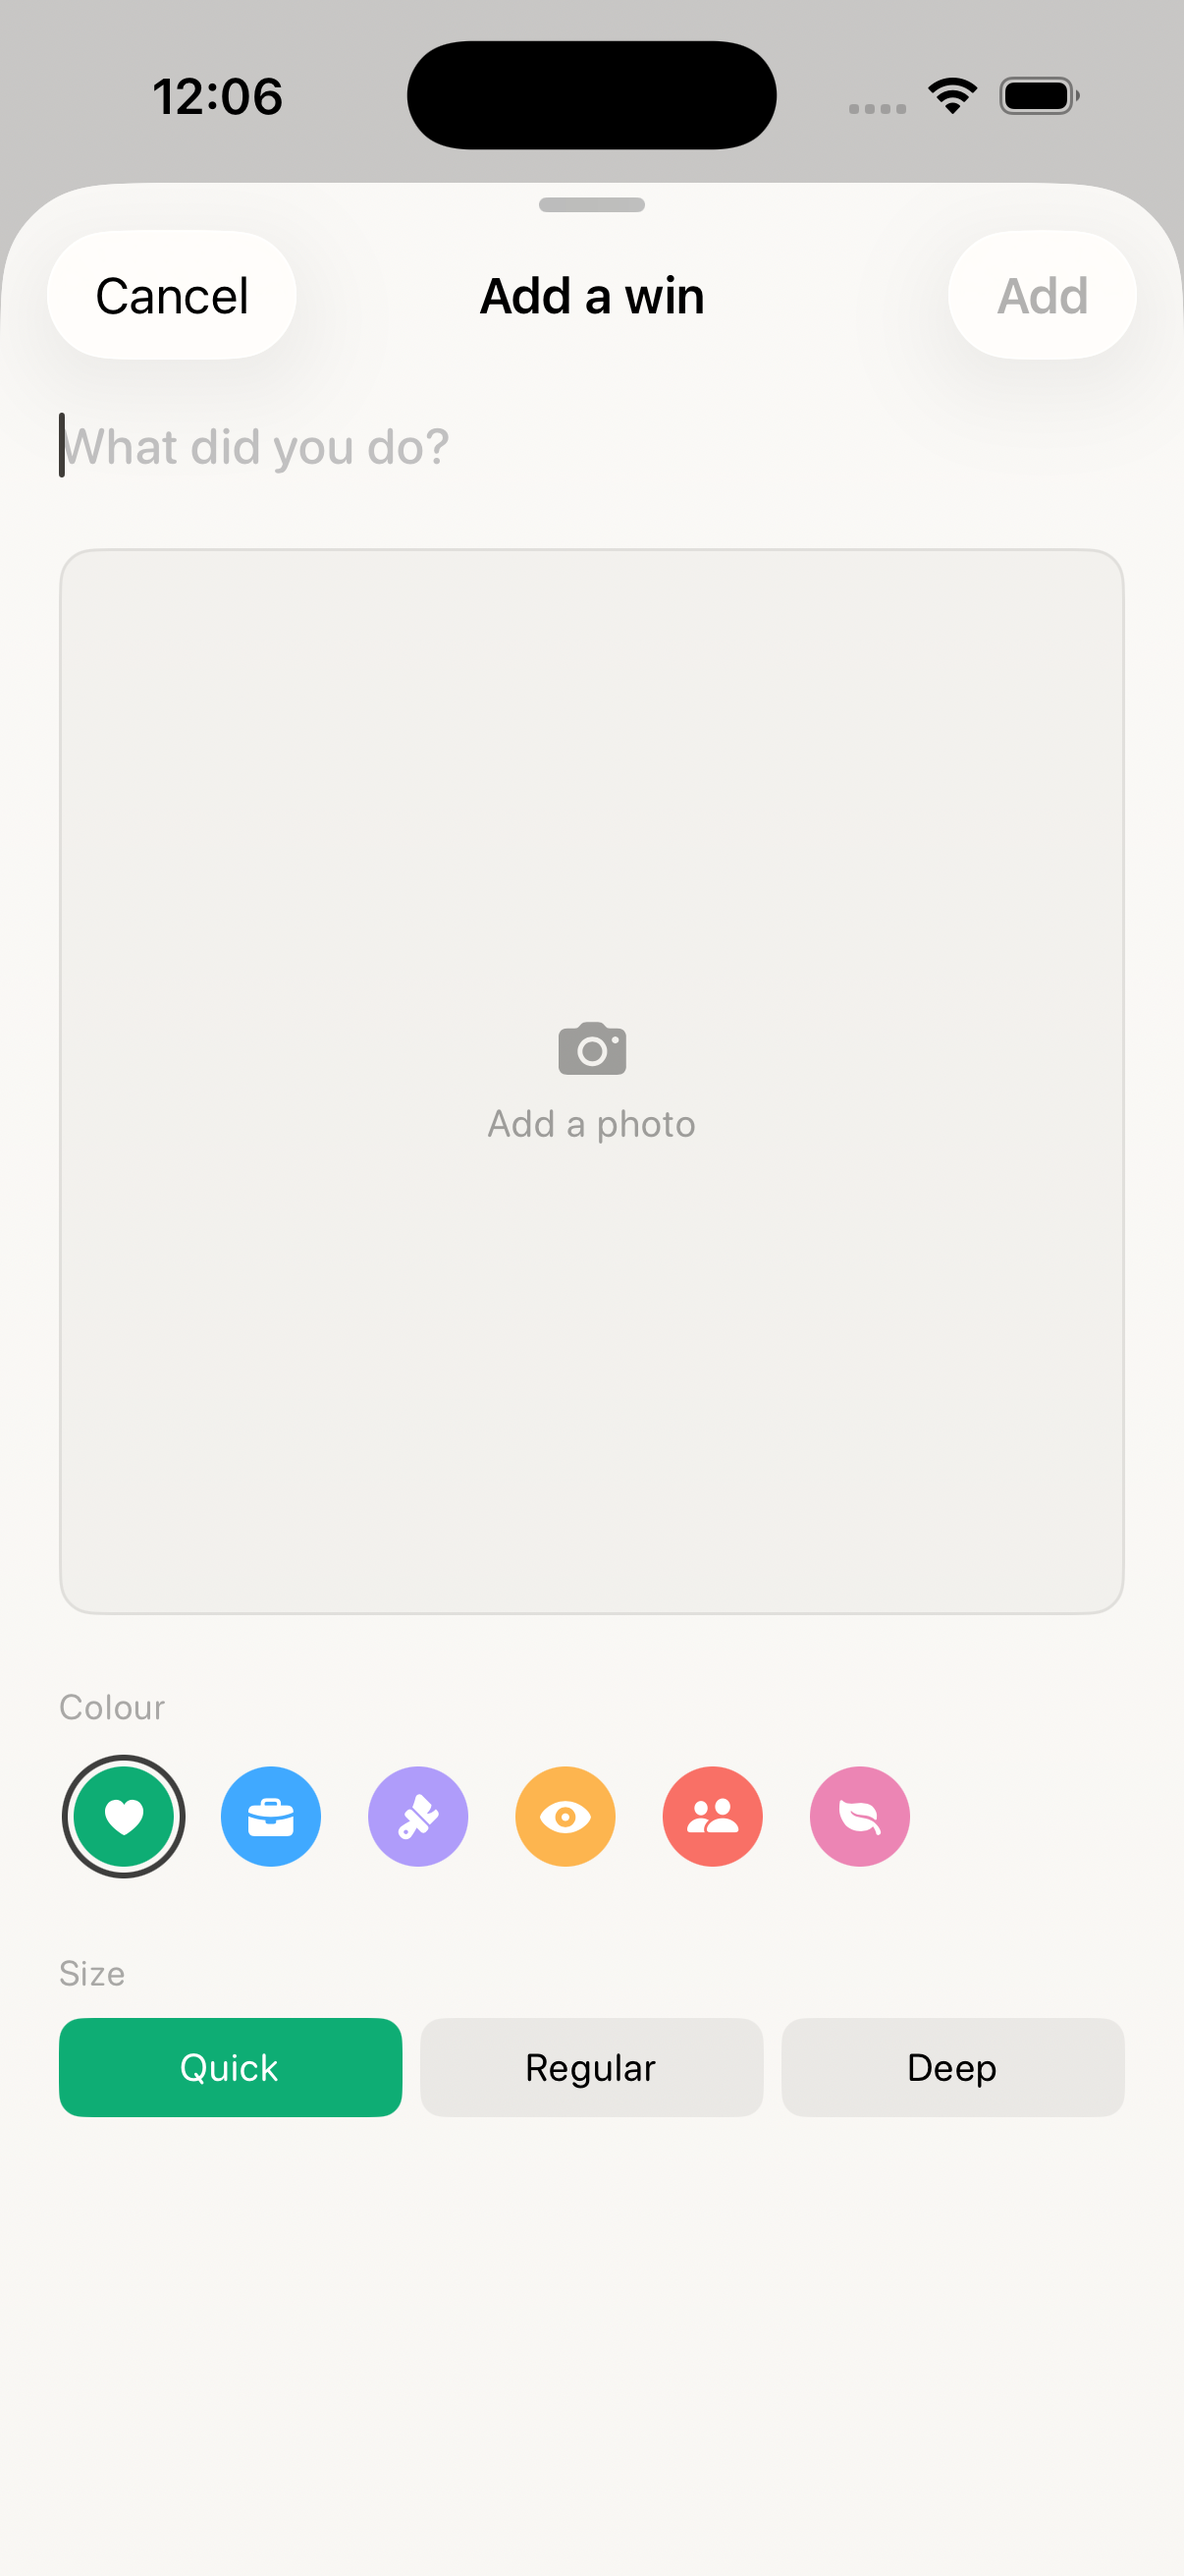
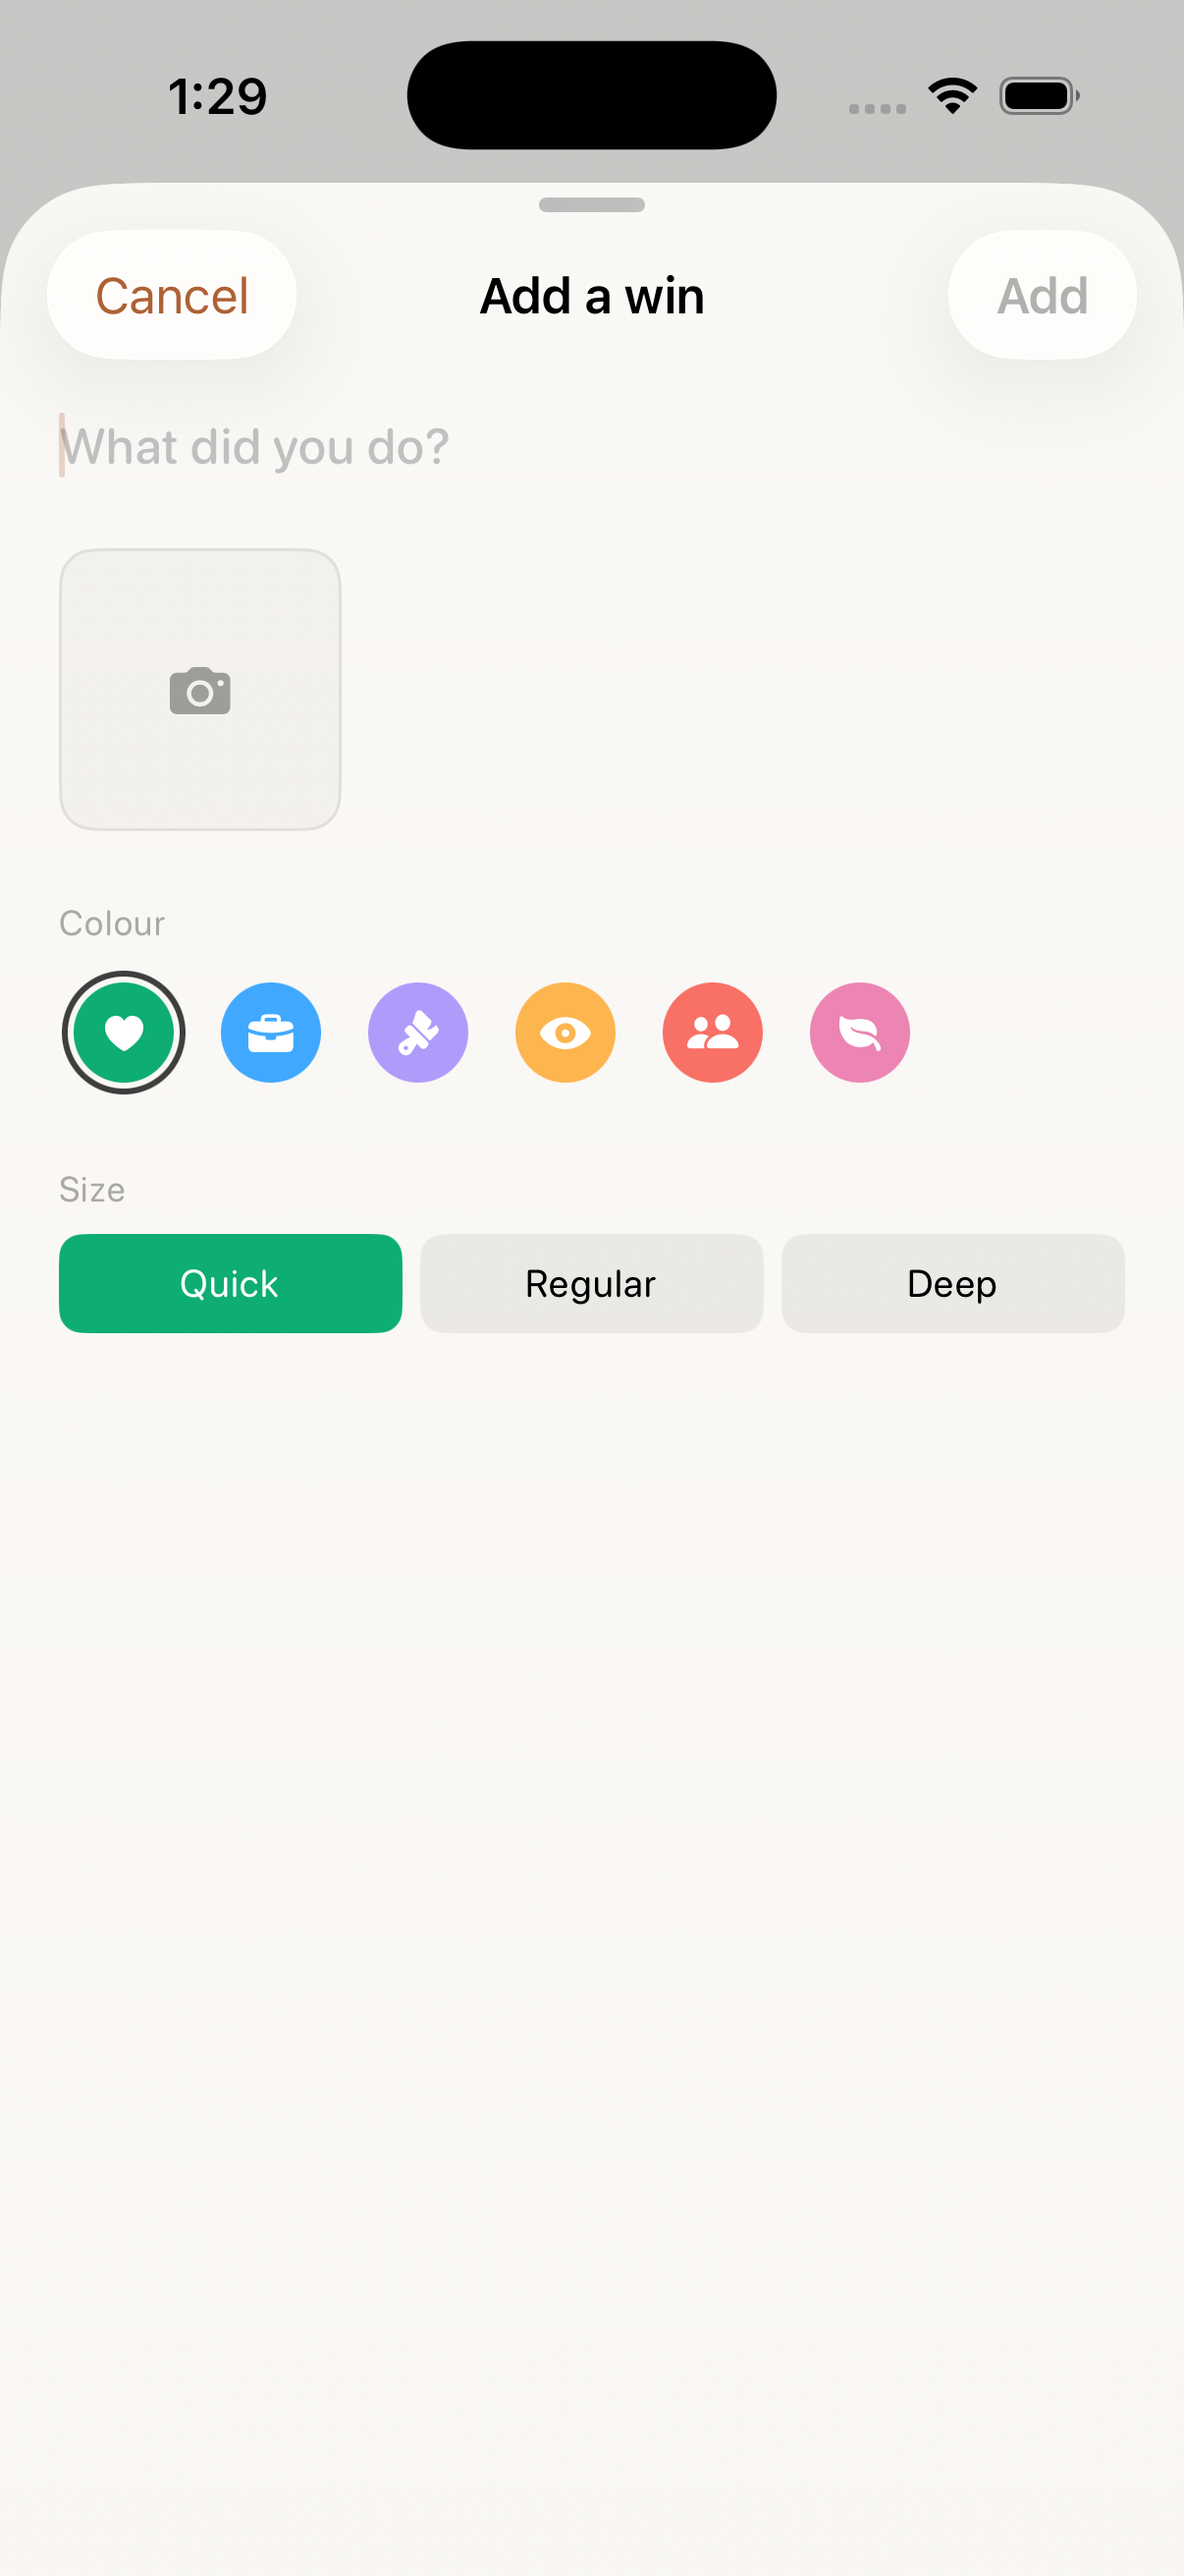
One highlight colour for both grounds, and a photo well that is the block
**Full screen and a light tab bar cannot both be had.** The iOS 26 tab
bar is Liquid Glass and samples what is behind it, so a viewfinder
running underneath turns it dark whatever the window says. Three ways to
stop that were tried and none reaches it: `UITabBarAppearance` (the
glass bar does not use the proxy), `toolbarColorScheme(_:for: .tabBar)`,
and `toolbarBackground(_:for: .tabBar)` with `.visible`. Recorded here
so they are not tried again.

So the bar is going to be dark on the camera, and the fix is to make
that state correct rather than to keep fighting it. The camera is dark,
the rest is light, and **the highlight no longer changes with them**.

**On the colour: 4.5:1 against both grounds is impossible, and here is
the proof.** To clear 4.5 against the app's off-white a colour needs
luminance <= 0.168; to clear it against the viewfinder's near-black it
needs >= 0.186. The windows do not overlap. The best any colour can do
is the geometric mean of the two grounds, L = 0.177, which gives exactly
4.33:1 against each — and that is what `accentEither` is. It clears WCAG
1.4.11's 3:1 for interface components on both with room, and falls short
of the 4.5:1 body-text bar, which nothing could have met here.

It replaces `.primary`, which resolved differently on each ground: the
selected item was one colour on the tower and another on the camera and
read as two different controls. Now there is nothing about the highlight
to transition at all.
[…]

diff --git a/Strata/Views/AddWinSheet.swift b/Strata/Views/AddWinSheet.swift
@@ -110,7 +110,14 @@ struct AddWinSheet: View {
                 onClose: { showCamera = false },
                 fillsScreen: true
             )
-            .preferredColorScheme(.dark)
+            // No colour-scheme override on this one.
+            //
+            // A `preferredColorScheme` inside a full-screen cover still
+            // reaches the window, so opening the camera from the add sheet
+            // flipped the whole app dark and flipped it back on dismiss — the
+            // screen lurching around a photo you were only trying to attach.
+            // The status bar renders white over the black viewfinder on its
+            // own, so it bought nothing.
         }
         // Two sources, asked once.
         //
@@ -158,7 +165,21 @@ struct AddWinSheet: View {
     /// square block, wide for a wide one. Tapping it opens the camera; tapping
     /// a photo you already took replaces it.
     private var photoWell: some View {
-        let aspect = CGFloat(size.columnSpan) / CGFloat(size.rowSpan)
+        // The well is the block, at the block's real proportions.
+        //
+        // It was `.aspectRatio` on a full-width frame, so Quick (1x1) and Deep
+        // (2x2) are both square and both came out the same size — the one
+        // control whose job is to show you what you are making showed no
+        // difference between the smallest thing and the biggest. It is sized
+        // from the grid now: one cell for Quick, two across for Regular, two
+        // across and two down for Deep, using the same cell pitch and corner
+        // radius the tower uses. Picking Deep makes the box visibly bigger,
+        // because the block is.
+        let cell: CGFloat = 96
+        let gap = GridConstants.spacing
+        let w = CGFloat(size.columnSpan) * cell + CGFloat(size.columnSpan - 1) * gap
+        let h = CGFloat(size.rowSpan) * cell + CGFloat(size.rowSpan - 1) * gap
+
         return Button {
             HapticsEngine.lightTap()
             choosingSource = true
@@ -171,21 +192,19 @@ struct AddWinSheet: View {
                 } else {
                     RoundedRectangle(cornerRadius: GridConstants.blockCornerRadius, style: .continuous)
                         .fill(AppColors.warmBlack.opacity(0.04))
-                    VStack(spacing: 7) {
+                    VStack(spacing: 6) {
                         Image(systemName: "camera.fill")
-                            .font(.system(size: 19, weight: .medium))
+                            .font(.system(size: 17, weight: .medium))
                             .foregroundStyle(.primary.opacity(0.35))
-                        Text("Add a photo")
-                            .font(Typography.bodySmall)
-                            .foregroundStyle(.primary.opacity(0.35))
+                        if size != .small {
+                            Text("Add a photo")
+                                .font(Typography.bodySmall)
+                                .foregroundStyle(.primary.opacity(0.35))
+                        }
                     }
                 }
             }
-            .frame(maxWidth: .infinity)
-            .aspectRatio(aspect, contentMode: .fit)
-            // Capped, or a square well for a Quick block eats half the sheet
-            // and the controls under it fall off the screen.
-            .frame(maxHeight: 210)
+            .frame(width: w, height: h)
             .clipShape(RoundedRectangle(cornerRadius: GridConstants.blockCornerRadius, style: .continuous))
             .overlay {
                 RoundedRectangle(cornerRadius: GridConstants.blockCornerRadius, style: .continuous)
@@ -197,14 +216,18 @@ struct AddWinSheet: View {
             .overlay(alignment: .bottomTrailing) {
                 if photo != nil {
                     Image(systemName: "arrow.triangle.2.circlepath.camera.fill")
-                        .font(.system(size: 13, weight: .semibold))
+                        .font(.system(size: 12, weight: .semibold))
                         .foregroundStyle(.white)
-                        .padding(8)
+                        .padding(7)
                         .background(Circle().fill(.black.opacity(0.35)))
-                        .padding(10)
+                        .padding(8)
                 }
             }
-            .animation(GridConstants.motionSmooth, value: size)
+            // Grows from the top left, where a block is anchored, so the
+            // change reads as the block getting bigger rather than as the box
+            // moving.
+            .frame(maxWidth: .infinity, alignment: .leading)
+            .animation(GridConstants.slotSnap, value: size)
         }
         .buttonStyle(.plain)
         .accessibilityLabel(photo == nil ? "Add a photo" : "Replace the photo")

diff --git a/Strata/Views/MainAppView.swift b/Strata/Views/MainAppView.swift
@@ -382,6 +382,7 @@ struct MainAppView: View {
         TabView(selection: $selectedTab) {
             Tab("Tower", systemImage: "square.stack.fill", value: StrataTab.tower) {
                 towerTabRoot
+                    .preferredColorScheme(.light)
             }
             // No badge. It counted blocks queued to drop, which is an
             // implementation detail measured in milliseconds — it flashed a
@@ -402,22 +403,23 @@ struct MainAppView: View {
             // you can name it after. Shooting from here logs the win straight
             // away with the photo already on it.
             Tab("Camera", systemImage: "camera.fill", value: StrataTab.camera) {
-                // The window stays light. All of it, always.
+                // Dark on the camera, light everywhere else — and nothing
+                // about the highlight changes with it.
                 //
-                // The camera would like a white status bar, and iOS ties the
-                // status bar's colour to the WINDOW's scheme — there is no
-                // per-screen route. Two scoped APIs were tried and neither
-                // reaches the iOS 26 tab bar: `UITabBarAppearance` (the glass
-                // bar does not use the proxy) and
-                // `toolbarColorScheme(.light, for: .tabBar)` (no effect). So
-                // the choice is a white status bar OR a light tab bar, and it
-                // cannot be both.
+                // The tab bar is Liquid Glass and samples what is behind it,
+                // so the viewfinder turns it dark whatever the window says.
+                // Three ways to stop that were tried and none reaches it:
+                // `UITabBarAppearance`, `toolbarColorScheme(_:for: .tabBar)`,
+                // and `toolbarBackground(_:for: .tabBar)`. So the bar is going
+                // to be dark there; the fix is to make that state correct
+                // rather than to fight it.
                 //
-                // The tab bar wins. It is on screen on every tab; the status
-                // bar is four glyphs on one. The cost is that over a dark
-                // scene the clock is low contrast — a real trade, and the one
-                // that keeps the app light throughout as decided.
+                // The tint is one fixed colour that reads on both grounds
+                // (`AppColors.accentEither`), so the selected item does not
+                // change appearance between tabs and there is nothing about it
+                // to animate.
                 cameraTab
+                    .preferredColorScheme(.dark)
             }
             Tab("Insights", systemImage: "chart.bar", value: StrataTab.insights) {
                 NavigationStack {
@@ -441,16 +443,16 @@ struct MainAppView: View {
                         )
                     }
                 }
+                .preferredColorScheme(.light)
             }
         }
-        // The highlight is the icon colour, not an accent.
+        // One highlight colour, on light and on dark.
         //
-        // The tab bar was tinted with the app's warm accent, which made the
-        // selected item a third colour that appears nowhere else in the
-        // chrome. With the bar pinned light, its icons are dark on every
-        // screen, so the selected item is the same colour as the ones beside
-        // it and simply filled in.
-        .tint(AppColors.warmBlack)
+        // It was `.primary`, which resolves differently on each ground — so
+        // the selected item was one colour on the tower and another on the
+        // camera, and read as two different controls. See `accentEither` for
+        // why 4.33:1 on both is the ceiling.
+        .tint(AppColors.accentEither)
         .modifier(TabBarCollapseModifier())
         .onChange(of: selectedTab) { _, newTab in
             HapticsEngine.tick()

diff --git a/Strata/Models/CategoryColors.swift b/Strata/Models/CategoryColors.swift
@@ -105,8 +105,28 @@ extension HabitCategory {
 
 enum AppColors {
     static let warmBlack = Color(hex: 0x403D39)
+
     static let accentWarm = Color(hex: 0x403D39)
     static let accentPurple = Color(hex: 0xA689FA)
+
+    /// The one highlight colour, on light and on dark.
+    ///
+    /// The tab bar is light on most screens and dark on the camera, and a
+    /// highlight that has to change with it is a highlight you have to think
+    /// about — it was `.primary`, which meant the selected item was a
+    /// different colour on different tabs and read as two different controls.
+    ///
+    /// **4.5:1 on both grounds is impossible, and this is the proof.** To
+    /// clear 4.5 against the app's off-white a colour needs luminance ≤ 0.168;
+    /// to clear it against the viewfinder's near-black it needs ≥ 0.186. The
+    /// windows do not overlap, so no colour exists that does both.
+    ///
+    /// The best any colour can do is sit at the geometric mean of the two
+    /// grounds — L = 0.177 — which gives exactly 4.33:1 against each. That is
+    /// what this is. It clears WCAG 1.4.11's 3:1 for interface components on
+    /// both with room to spare, and falls a little short of the 4.5:1 body-text
+    /// bar, which no colour could have met here.
+    static let accentEither = Color(hex: 0xAD6135)
     static let healthGreen = Color(hex: 0x34C48B)
     static let warmRed = Color(hex: 0xE85D4A)
     /// Ghost block background for incomplete timeline habits (light mode) — 12% luminance contrast to warm background (WCAG AA)

diff --git a/Strata/Views/CameraView.swift b/Strata/Views/CameraView.swift
@@ -93,8 +93,16 @@ struct CameraView: View {
             let topInset = geo.safeAreaInsets.top
             // Presented on its own there is no tab bar to leave room for, so
             // it takes the whole screen. In the tab it stops just above the
-            // bar, which is what keeps the app's light ground under the bar
-            // rather than a black viewfinder.
+            // bar — and that is not a preference, it is the only way the bar
+            // stays light.
+            //
+            // The iOS 26 tab bar is Liquid Glass: it samples what is behind
+            // it, so a viewfinder running underneath turns it black and takes
+            // the selected item with it. Three ways to stop it were tried and
+            // none reaches that bar: `UITabBarAppearance` (the glass bar does
+            // not use the proxy), `toolbarColorScheme(.light, for: .tabBar)`,
+            // and `toolbarBackground(_:for: .tabBar)` with `.visible`. Not
+            // putting black behind it is what is left.
             //
             // Without this the modal camera drew to the top of the home
             // indicator and left a stray light strip below itself with the
